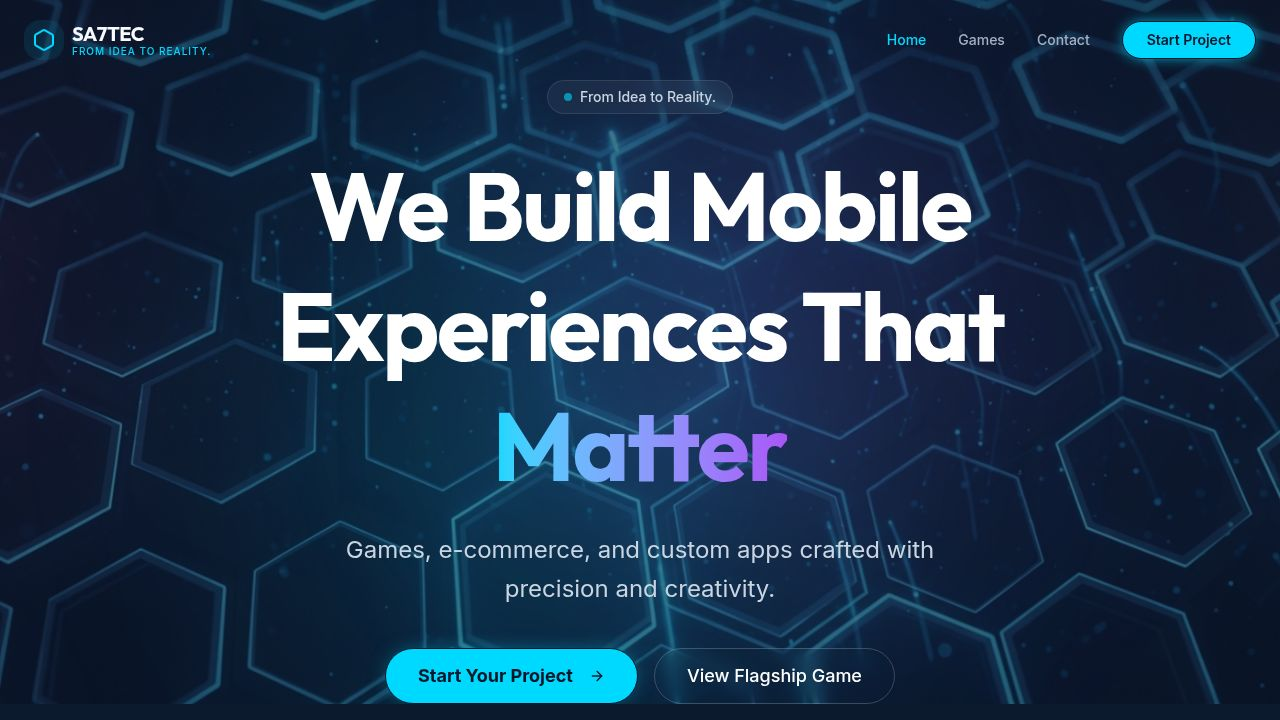
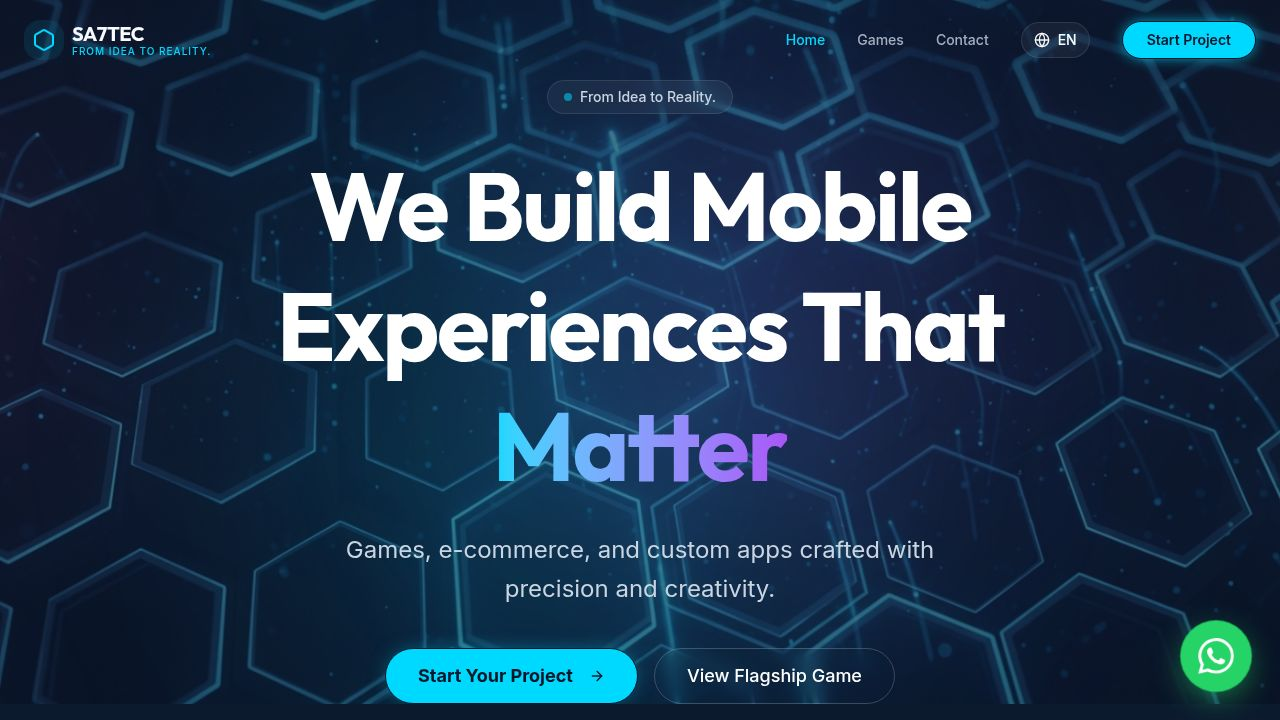
Add a floating WhatsApp chat button to all public pages
Integrates a floating WhatsApp button into the PublicLayout, enabling direct chat initiation via `wa.me` links. Includes i18n translations for multiple languages and handles RTL directionality.

Replit-Commit-Author: Agent
Replit-Commit-Session-Id: a527a550-0481-4097-b301-c85d4a25250a
Replit-Commit-Checkpoint-Type: full_checkpoint
Replit-Commit-Event-Id: f990586d-c59f-4d40-addf-65870a2b627c
Replit-Commit-Screenshot-Url: https://storage.googleapis.com/screenshot-production-us-central1/9656a442-5945-4be3-bbaa-689a09c9288d/a527a550-0481-4097-b301-c85d4a25250a/u2c86Tz
Replit-Helium-Checkpoint-Created: true

Changed region(s): [[0.9062, 0.8556, 1.0, 0.9778], [0.5938, 0.0306, 0.8438, 0.0917]]

diff --git a/artifacts/sa7tec/src/components/WhatsAppButton.tsx b/artifacts/sa7tec/src/components/WhatsAppButton.tsx
@@ -1,0 +1,114 @@
+import { useState, useEffect } from "react";
+import { MessageCircle, X } from "lucide-react";
+import { motion, AnimatePresence } from "framer-motion";
+import { useContent } from "@/lib/content-store";
+import { useLanguage } from "@/lib/i18n";
+
+export function WhatsAppButton() {
+  const { content } = useContent();
+  const { t, dir } = useLanguage();
+  const [isOpen, setIsOpen] = useState(false);
+  const [hasMounted, setHasMounted] = useState(false);
+
+  useEffect(() => {
+    const timer = setTimeout(() => setHasMounted(true), 200);
+    return () => clearTimeout(timer);
+  }, []);
+
+  const raw = (content.contactInfo.whatsapp || "").trim();
+  const digits = raw.replace(/[^\d]/g, "");
+
+  if (!digits) return null;
+
+  const message = encodeURIComponent(t("whatsapp.default_message"));
+  const href = `https://wa.me/${digits}?text=${message}`;
+
+  const sideClass = dir === "rtl" ? "left-5 md:left-8" : "right-5 md:right-8";
+  const bubbleSideClass = dir === "rtl" ? "left-0" : "right-0";
+  const tailSideClass = dir === "rtl" ? "left-6" : "right-6";
+
+  return (
+    <div className={`fixed bottom-5 md:bottom-8 ${sideClass} z-40 flex flex-col items-end`}>
+      <AnimatePresence>
+        {isOpen && (
+          <motion.div
+            initial={{ opacity: 0, y: 12, scale: 0.95 }}
+            animate={{ opacity: 1, y: 0, scale: 1 }}
+            exit={{ opacity: 0, y: 12, scale: 0.95 }}
+            transition={{ duration: 0.18, ease: "easeOut" }}
+            className={`relative mb-3 w-72 rounded-2xl border border-border/60 bg-card/95 backdrop-blur-md shadow-2xl shadow-black/40 p-4 ${bubbleSideClass}`}
+            style={{ position: "absolute", bottom: "100%" }}
+            data-testid="whatsapp-bubble"
+          >
+            <button
+              type="button"
+              onClick={() => setIsOpen(false)}
+              aria-label={t("whatsapp.close")}
+              className="absolute top-2 end-2 w-7 h-7 rounded-full text-muted-foreground hover:text-foreground hover:bg-muted/40 flex items-center justify-center transition-colors"
+              data-testid="button-whatsapp-close"
+            >
+              <X className="w-4 h-4" />
+            </button>
+            <div className="flex items-start gap-3 pe-6">
+              <div className="w-10 h-10 rounded-full bg-[#25D366]/15 text-[#25D366] flex items-center justify-center shrink-0">
+                <MessageCircle className="w-5 h-5" />
+              </div>
+              <div className="flex-1 min-w-0">
+                <p className="font-display font-semibold text-sm text-foreground leading-snug">
+                  {content.siteInfo.title}
+                </p>
+                <p className="text-xs text-muted-foreground mt-0.5">
+                  {t("whatsapp.online")}
+                </p>
+              </div>
+            </div>
+            <p className="mt-3 text-sm text-foreground/90 leading-relaxed">
+              {t("whatsapp.greeting")}
+            </p>
+            <a
+              href={href}
+              target="_blank"
+              rel="noopener noreferrer"
+              onClick={() => setIsOpen(false)}
+              className="mt-4 w-full inline-flex items-center justify-center gap-2 rounded-full bg-[#25D366] hover:bg-[#1ebe5a] text-white text-sm font-semibold py-2.5 transition-colors shadow-[0_0_18px_-3px_#25D366]"
+              data-testid="link-whatsapp-chat"
+            >
+              <MessageCircle className="w-4 h-4" />
+              {t("whatsapp.start_chat")}
+            </a>
+            <span
+              className={`absolute -bottom-1.5 ${tailSideClass} w-3 h-3 rotate-45 bg-card/95 border-e border-b border-border/60`}
+            />
+          </motion.div>
+        )}
+      </AnimatePresence>
+
+      <motion.button
+        type="button"
+        onClick={() => setIsOpen((v) => !v)}
+        initial={{ scale: 0, opacity: 0 }}
+        animate={{ scale: hasMounted ? 1 : 0, opacity: hasMounted ? 1 : 0 }}
+        whileHover={{ scale: 1.06 }}
+        whileTap={{ scale: 0.94 }}
+        transition={{ type: "spring", stiffness: 260, damping: 18 }}
+        aria-label={t("whatsapp.aria_label")}
+        className="relative w-14 h-14 md:w-16 md:h-16 rounded-full bg-[#25D366] text-white flex items-center justify-center shadow-[0_8px_30px_-6px_rgba(37,211,102,0.7)] hover:shadow-[0_8px_40px_-4px_rgba(37,211,102,0.9)] transition-shadow"
+        data-testid="button-whatsapp-toggle"
+      >
+        <span className="absolute inset-0 rounded-full bg-[#25D366] animate-ping opacity-30" />
+        {isOpen ? (
+          <X className="w-6 h-6 md:w-7 md:h-7 relative" />
+        ) : (
+          <svg
+            viewBox="0 0 24 24"
+            fill="currentColor"
+            className="w-7 h-7 md:w-8 md:h-8 relative"
+            aria-hidden="true"
+          >
+            <path d="M17.472 14.382c-.297-.149-1.758-.867-2.03-.967-.273-.099-.471-.148-.67.15-.197.297-.767.966-.94 1.164-.173.199-.347.223-.644.075-.297-.15-1.255-.463-2.39-1.475-.883-.788-1.48-1.761-1.653-2.059-.173-.297-.018-.458.13-.606.134-.133.298-.347.446-.52.149-.174.198-.298.298-.497.099-.198.05-.371-.025-.52-.075-.149-.669-1.612-.916-2.207-.242-.579-.487-.5-.669-.51-.173-.008-.371-.01-.57-.01-.198 0-.52.074-.792.372-.272.297-1.04 1.016-1.04 2.479 0 1.462 1.065 2.875 1.213 3.074.149.198 2.096 3.2 5.077 4.487.709.306 1.262.489 1.694.625.712.227 1.36.195 1.871.118.571-.085 1.758-.719 2.006-1.413.248-.694.248-1.289.173-1.413-.074-.124-.272-.198-.57-.347m-5.421 7.403h-.004a9.87 9.87 0 01-5.031-1.378l-.361-.214-3.741.982.998-3.648-.235-.374a9.86 9.86 0 01-1.51-5.26c.001-5.45 4.436-9.884 9.888-9.884 2.64 0 5.122 1.03 6.988 2.898a9.825 9.825 0 012.893 6.994c-.003 5.45-4.437 9.884-9.885 9.884m8.413-18.297A11.815 11.815 0 0012.05 0C5.495 0 .16 5.335.157 11.892c0 2.096.547 4.142 1.588 5.945L.057 24l6.305-1.654a11.882 11.882 0 005.683 1.448h.005c6.554 0 11.89-5.335 11.893-11.893a11.821 11.821 0 00-3.48-8.413Z" />
+          </svg>
+        )}
+      </motion.button>
+    </div>
+  );
+}

diff --git a/artifacts/sa7tec/src/lib/i18n.tsx b/artifacts/sa7tec/src/lib/i18n.tsx
@@ -185,6 +185,12 @@ const STRINGS = {
     "admin.field.instagram": "Instagram URL",
     "admin.field.github": "GitHub URL",
     "admin.field.whatsapp": "WhatsApp number (intl format)",
+    "whatsapp.aria_label": "Chat with us on WhatsApp",
+    "whatsapp.close": "Close chat",
+    "whatsapp.online": "Typically replies within an hour",
+    "whatsapp.greeting": "Hi! Have a project in mind or a quick question? Send us a message and we'll get back to you fast.",
+    "whatsapp.start_chat": "Start chat on WhatsApp",
+    "whatsapp.default_message": "Hi SA7TEC, I'd like to discuss a project.",
     "admin.services_card": "Services (\"What We Build\")",
     "admin.services_card_sub": "Cards shown in the homepage services grid.",
     "admin.portfolio_card": "Portfolio items",
@@ -373,6 +379,12 @@ const STRINGS = {
     "admin.field.instagram": "URL Instagram",
     "admin.field.github": "URL GitHub",
     "admin.field.whatsapp": "Numéro WhatsApp (format intl.)",
+    "whatsapp.aria_label": "Discutez avec nous sur WhatsApp",
+    "whatsapp.close": "Fermer la discussion",
+    "whatsapp.online": "Réponse en moins d'une heure en général",
+    "whatsapp.greeting": "Bonjour ! Vous avez un projet ou une question rapide ? Envoyez-nous un message et nous vous répondrons rapidement.",
+    "whatsapp.start_chat": "Démarrer la discussion sur WhatsApp",
+    "whatsapp.default_message": "Bonjour SA7TEC, je souhaite discuter d'un projet.",
     "admin.services_card": "Services (\"Ce que nous créons\")",
     "admin.services_card_sub": "Cartes de la grille de services sur la page d'accueil.",
     "admin.portfolio_card": "Éléments du portfolio",
@@ -561,6 +573,12 @@ const STRINGS = {
     "admin.field.instagram": "رابط إنستغرام",
     "admin.field.github": "رابط GitHub",
     "admin.field.whatsapp": "رقم واتساب (تنسيق دولي)",
+    "whatsapp.aria_label": "تحدّث معنا على واتساب",
+    "whatsapp.close": "إغلاق المحادثة",
+    "whatsapp.online": "نرد عادةً خلال ساعة",
+    "whatsapp.greeting": "مرحباً! هل لديك مشروع في ذهنك أو سؤال سريع؟ أرسل لنا رسالة وسنرد عليك بسرعة.",
+    "whatsapp.start_chat": "ابدأ المحادثة على واتساب",
+    "whatsapp.default_message": "مرحباً SA7TEC، أود مناقشة مشروع.",
     "admin.services_card": "الخدمات (\"ما الذي نبنيه\")",
     "admin.services_card_sub": "البطاقات المعروضة في شبكة الخدمات بالصفحة الرئيسية.",
     "admin.portfolio_card": "أعمال البورتفوليو",

diff --git a/artifacts/sa7tec/src/components/layout/PublicLayout.tsx b/artifacts/sa7tec/src/components/layout/PublicLayout.tsx
@@ -6,6 +6,7 @@ import { useLanguage } from "@/lib/i18n";
 import { Button } from "@/components/ui/button";
 import { motion, AnimatePresence } from "framer-motion";
 import { LanguageSwitcher } from "@/components/LanguageSwitcher";
+import { WhatsAppButton } from "@/components/WhatsAppButton";
 
 export function PublicLayout({ children }: { children: ReactNode }) {
   const [isScrolled, setIsScrolled] = useState(false);
@@ -184,6 +185,8 @@ export function PublicLayout({ children }: { children: ReactNode }) {
           </div>
         </div>
       </footer>
+
+      <WhatsAppButton />
     </div>
   );
 }

diff --git a/replit.md b/replit.md
@@ -23,6 +23,8 @@ The site is a single-page React app with a hidden admin panel. There is no backe
 - `/admin` — password login (NOT linked in any nav)
 - `/admin/dashboard` — full content editor with tabs for: General (site title, tagline, hero copy, about), Services (add/reorder/delete with icon + color picker), Portfolio (with image upload), Flagship Game (title, copy, hero image, multiple screenshots), Stats (label + value), Process steps, Testimonials (with avatar upload), Media (hero background image), Contact (email, phone, WhatsApp, address, Twitter/LinkedIn/Instagram/GitHub URLs), Submissions (view/delete/export JSON), Password (change admin password). Image uploads are stored as base64 inside the same browser-storage content blob.
 
+A floating WhatsApp chat button (`src/components/WhatsAppButton.tsx`) is mounted in `PublicLayout` and appears on every public page. It uses the WhatsApp number set in the admin Contact tab — if the number is empty, the button is hidden. Clicking it opens a small chat-style bubble with a "Start chat on WhatsApp" link that deep-links to `https://wa.me/<digits>?text=<localized message>`. The bubble copy and tooltip are translated EN/FR/AR and the button mirrors to the left side in RTL mode.
+
 **Default admin password:** `sa7tec2026`
 The password is stored in `localStorage` under `sa7tec_admin_pwd` and can be changed from the dashboard.
 Session token is kept in `sessionStorage` so login expires when the browser closes.
